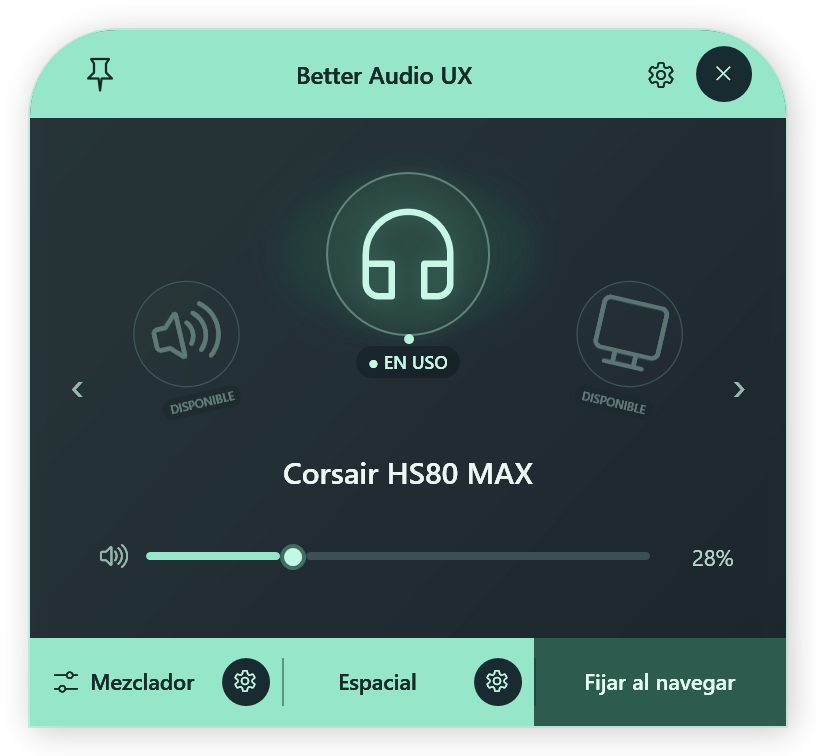
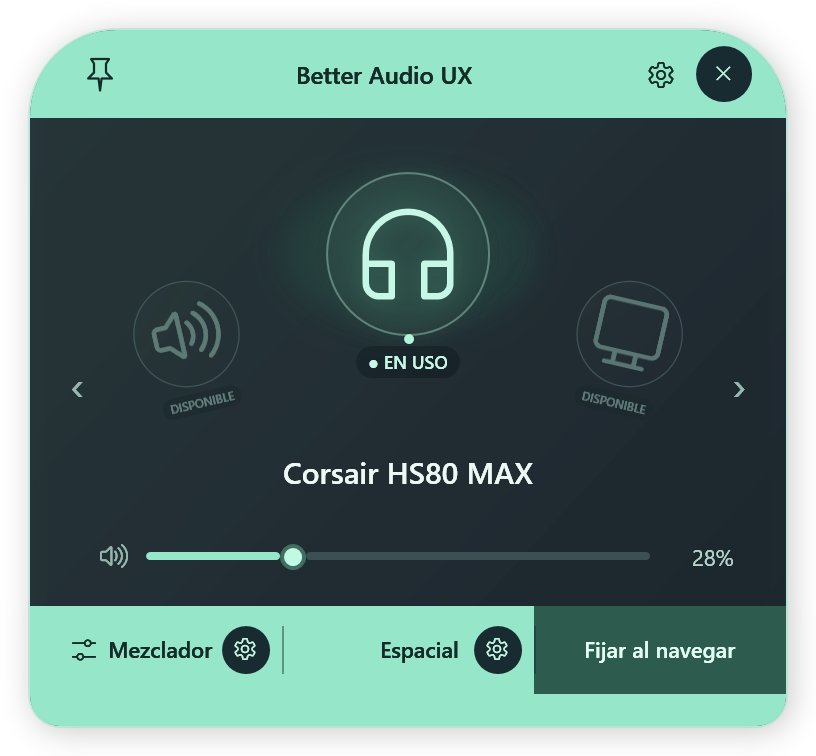
Add separate rounded footer base and tighten settings spacing

Changed region(s): [[0.0306, 0.791, 0.9804, 0.9735], [0.0306, 0.9431, 0.0613, 0.9735]]

diff --git a/AudioFlyoutApp/UI/Flyout/FlyoutWindow.xaml b/AudioFlyoutApp/UI/Flyout/FlyoutWindow.xaml
@@ -9,8 +9,8 @@
     <Window.Resources>
         <BooleanToVisibilityConverter x:Key="VisibleIf"/>
         <Style x:Key="FooterGroupButton" TargetType="Button">
-            <Setter Property="Foreground" Value="#142C28"/><Setter Property="Cursor" Value="Hand"/><Setter Property="Padding" Value="9,6"/>
-            <Setter Property="Template"><Setter.Value><ControlTemplate TargetType="Button"><Border x:Name="Surface" Background="Transparent" CornerRadius="0" Padding="{TemplateBinding Padding}"><ContentPresenter VerticalAlignment="Center" HorizontalAlignment="Center"/></Border><ControlTemplate.Triggers><Trigger Property="IsMouseOver" Value="True"><Setter TargetName="Surface" Property="Background" Value="#25142C28"/></Trigger><Trigger Property="IsKeyboardFocused" Value="True"><Setter TargetName="Surface" Property="Background" Value="#25142C28"/></Trigger></ControlTemplate.Triggers></ControlTemplate></Setter.Value></Setter>
+            <Setter Property="Foreground" Value="#142C28"/><Setter Property="Cursor" Value="Hand"/><Setter Property="Padding" Value="9,6,3,6"/>
+            <Setter Property="Template"><Setter.Value><ControlTemplate TargetType="Button"><Border x:Name="Surface" Background="Transparent" CornerRadius="0" Padding="{TemplateBinding Padding}"><ContentPresenter VerticalAlignment="Center" HorizontalAlignment="Right"/></Border><ControlTemplate.Triggers><Trigger Property="IsMouseOver" Value="True"><Setter TargetName="Surface" Property="Background" Value="#25142C28"/></Trigger><Trigger Property="IsKeyboardFocused" Value="True"><Setter TargetName="Surface" Property="Background" Value="#25142C28"/></Trigger></ControlTemplate.Triggers></ControlTemplate></Setter.Value></Setter>
         </Style>
         <Style x:Key="FooterIconButton" TargetType="Button">
             <Setter Property="Foreground" Value="#C5F6E4"/><Setter Property="Background" Value="#172B30"/><Setter Property="Cursor" Value="Hand"/>
@@ -21,7 +21,7 @@
             <Setter Property="Foreground" Value="#142C28"/><Setter Property="FontSize" Value="11"/><Setter Property="FontWeight" Value="SemiBold"/><Setter Property="Cursor" Value="Hand"/>
             <Setter Property="HorizontalContentAlignment" Value="Center"/><Setter Property="VerticalContentAlignment" Value="Center"/>
             <Setter Property="Template"><Setter.Value><ControlTemplate TargetType="CheckBox">
-                <Border x:Name="Section" Background="Transparent" Padding="6,0"><ContentPresenter HorizontalAlignment="Center" VerticalAlignment="Center"/></Border>
+                <Border x:Name="Section" Background="Transparent" Padding="6,0"><ContentPresenter HorizontalAlignment="{TemplateBinding HorizontalContentAlignment}" VerticalAlignment="Center"/></Border>
                 <ControlTemplate.Triggers>
                     <Trigger Property="IsChecked" Value="True"><Setter TargetName="Section" Property="Background" Value="#2D5C4E"/><Setter Property="Foreground" Value="#E3FFF3"/></Trigger>
                     <Trigger Property="IsMouseOver" Value="True"><Setter TargetName="Section" Property="Opacity" Value="0.8"/></Trigger>
@@ -107,12 +107,12 @@
         </Style>
         <Style x:Key="HeaderButton" TargetType="Button" BasedOn="{StaticResource IconButton}"><Setter Property="Foreground" Value="#142C28"/><Style.Triggers><Trigger Property="IsMouseOver" Value="True"><Setter Property="Foreground" Value="#28483D"/></Trigger><Trigger Property="IsKeyboardFocused" Value="True"><Setter Property="Foreground" Value="#28483D"/></Trigger></Style.Triggers></Style>
     </Window.Resources>
-    <Border x:Name="HudSurface" Margin="14" CornerRadius="44,44,0,0" BorderBrush="#8596E6C9" BorderThickness="1" RenderTransformOrigin="0.5,1">
+    <Border x:Name="HudSurface" Margin="14" CornerRadius="44,44,16,16" BorderBrush="#8596E6C9" BorderThickness="1" RenderTransformOrigin="0.5,1">
         <Border.Background><LinearGradientBrush StartPoint="0,0" EndPoint="1,1"><GradientStop Color="#EB18282C" Offset="0"/><GradientStop Color="#F0111B23" Offset="1"/></LinearGradientBrush></Border.Background>
         <Border.Effect><DropShadowEffect BlurRadius="24" ShadowDepth="3" Opacity="0.22" Color="#000000"/></Border.Effect>
         <Border.RenderTransform><TransformGroup><ScaleTransform x:Name="RevealScale"/><TranslateTransform x:Name="RevealOffset"/></TransformGroup></Border.RenderTransform>
         <Grid>
-        <Grid.RowDefinitions><RowDefinition Height="44"/><RowDefinition/><RowDefinition Height="Auto"/></Grid.RowDefinitions>
+        <Grid.RowDefinitions><RowDefinition Height="44"/><RowDefinition/><RowDefinition Height="Auto"/><RowDefinition Height="Auto"/></Grid.RowDefinitions>
         <Border CornerRadius="43,43,0,0" Background="#96E6C9"><Grid Margin="17,4">
             <Button x:Name="PinButton" Style="{StaticResource HeaderButton}" Foreground="#142C28" HorizontalAlignment="Left" Click="Pin_Click" ToolTip="Fijar panel: mantener abierto al usar otra aplicación" AutomationProperties.Name="Fijar o desfijar panel"><Viewbox Width="18" Height="18"><Path x:Name="PinShape" Data="M 6,2 L 18,2 L 16,5 L 16,11 L 20,15 L 13,15 L 12,23 L 11,15 L 4,15 L 8,11 L 8,5 Z" Stroke="#142C28" StrokeThickness="1.5" Fill="Transparent" StrokeLineJoin="Round"/></Viewbox></Button>
             <TextBlock Text="Better Audio UX" Foreground="#142C28" FontWeight="SemiBold" FontSize="12" HorizontalAlignment="Center" VerticalAlignment="Center" Margin="0,0,24,0"/>
@@ -186,14 +186,14 @@
                 <Border Grid.Column="0" Background="Transparent" Margin="0">
                     <Grid>
                         <Grid.ColumnDefinitions><ColumnDefinition/><ColumnDefinition Width="32"/></Grid.ColumnDefinitions>
-                        <Button Style="{StaticResource FooterGroupButton}" Click="Mixer_Click" AutomationProperties.Name="Abrir mezclador integrado" HorizontalAlignment="Stretch"><StackPanel Orientation="Horizontal" HorizontalAlignment="Center"><TextBlock Text="&#xE9E9;" FontFamily="Segoe Fluent Icons, Segoe MDL2 Assets" FontSize="12" Margin="0,0,6,0" VerticalAlignment="Center"/><TextBlock Text="Mezclador" FontSize="11" FontWeight="SemiBold" VerticalAlignment="Center"/></StackPanel></Button>
+                        <Button Style="{StaticResource FooterGroupButton}" Click="Mixer_Click" AutomationProperties.Name="Abrir mezclador integrado" HorizontalAlignment="Stretch"><StackPanel Orientation="Horizontal" HorizontalAlignment="Right"><TextBlock Text="&#xE9E9;" FontFamily="Segoe Fluent Icons, Segoe MDL2 Assets" FontSize="12" Margin="0,0,6,0" VerticalAlignment="Center"/><TextBlock Text="Mezclador" FontSize="11" FontWeight="SemiBold" VerticalAlignment="Center"/></StackPanel></Button>
                         <Button Grid.Column="1" Style="{StaticResource FooterIconButton}" Click="MixerSettings_Click" Content="&#xE713;" FontFamily="Segoe Fluent Icons, Segoe MDL2 Assets" FontSize="11" ToolTip="Mezclador de Windows" AutomationProperties.Name="Abrir configuración del mezclador en Windows"/>
                     </Grid>
                 </Border>
                 <Border Grid.Column="1" Margin="0"><Border.Style><Style TargetType="Border"><Setter Property="Background" Value="Transparent"/><Style.Triggers><DataTrigger Binding="{Binding SpatialEnabled}" Value="True"><Setter Property="Background" Value="#2D5C4E"/></DataTrigger></Style.Triggers></Style></Border.Style>
                     <Grid>
                         <Grid.ColumnDefinitions><ColumnDefinition/><ColumnDefinition Width="32"/></Grid.ColumnDefinitions>
-                        <CheckBox Style="{StaticResource FooterCheckBox}" Content="Espacial" Margin="0" IsChecked="{Binding SpatialEnabled, Mode=OneWay}" IsEnabled="{Binding CanToggleSpatial}" Click="SpatialToggle_Click" ToolTip="{Binding SpatialHint}" ToolTipService.ShowOnDisabled="True" HorizontalAlignment="Stretch" VerticalAlignment="Stretch" AutomationProperties.Name="Activar o desactivar sonido espacial"/>
+                        <CheckBox Style="{StaticResource FooterCheckBox}" Content="Espacial" HorizontalContentAlignment="Right" Margin="0" IsChecked="{Binding SpatialEnabled, Mode=OneWay}" IsEnabled="{Binding CanToggleSpatial}" Click="SpatialToggle_Click" ToolTip="{Binding SpatialHint}" ToolTipService.ShowOnDisabled="True" HorizontalAlignment="Stretch" VerticalAlignment="Stretch" AutomationProperties.Name="Activar o desactivar sonido espacial"/>
                         <Button Grid.Column="1" Style="{StaticResource FooterIconButton}" Tag="Spatial" Click="Spatial_Click" IsEnabled="{Binding HasDevices}" Content="&#xE713;" FontFamily="Segoe Fluent Icons, Segoe MDL2 Assets" FontSize="11" ToolTip="Proveedores y propiedades de sonido espacial en Windows" AutomationProperties.Name="Configurar sonido espacial en Windows"/>
                     </Grid>
                 </Border>
@@ -204,6 +204,7 @@
                 </Border>
             </Grid>
         </Border>
+        <Border Grid.Row="3" Height="16" CornerRadius="0,0,15,15" Background="#96E6C9" IsHitTestVisible="False"><Border.Style><Style TargetType="Border"><Style.Triggers><DataTrigger Binding="{Binding IsMixerOpen}" Value="True"><Setter Property="Visibility" Value="Collapsed"/></DataTrigger></Style.Triggers></Style></Border.Style></Border>
         <Grid x:Name="MixerView" Grid.Row="1" Grid.RowSpan="2" Margin="20,8,20,18">
             <Grid.Style><Style TargetType="Grid"><Setter Property="Visibility" Value="Collapsed"/><Style.Triggers><DataTrigger Binding="{Binding IsMixerOpen}" Value="True"><Setter Property="Visibility" Value="Visible"/></DataTrigger></Style.Triggers></Style></Grid.Style>
             <Grid.RenderTransform><TranslateTransform/></Grid.RenderTransform>

diff --git a/README.md b/README.md
@@ -108,7 +108,7 @@ Utiliza NAudio.Wasapi/NAudio.Core (MIT), el runtime de .NET y **SoundVolumeComma
 
 Consultá [THIRD-PARTY-NOTICES.md](THIRD-PARTY-NOTICES.md) y el [readme original de NirSoft](ThirdParty/SoundVolumeCommandLine/readme.txt). Las licencias de las dependencias no conceden una licencia sobre el código propio del proyecto.
 
-## Interfaz compacta 1.2.6
+## Interfaz compacta 1.2.7
 
-El footer se divide en tres secciones: Mezclador, Espacial y Fijar al navegar. Las opciones activas colorean su sección completa, sin casillas; los engranajes siguen abriendo sus ajustes de Windows. El footer tiene bordes rectos; el encabezado conserva sus esquinas superiores redondeadas. Los engranajes tienen contenedores circulares con contraste, que invierten sus colores cuando Espacial está activo. La apertura prepara el audio antes de mostrar un único fundido del contenido, sin volver a escalar ni cambiar la opacidad de la ventana. Los indicadores de estado de los dispositivos ("EN USO" y "DISPONIBLE") cuentan con mayor visibilidad, fondo y tipografía destacada. La vista principal mide 408 × 378 DIPs.
+El footer se divide en tres secciones: Mezclador, Espacial y Fijar al navegar. Las opciones activas colorean su sección completa, sin casillas; los engranajes siguen abriendo sus ajustes de Windows. Las tres secciones del footer conservan sus bordes rectos, con una base decorativa independiente que redondea el borde inferior sin recortar los botones. Los engranajes están más cerca del texto. El encabezado conserva sus esquinas superiores redondeadas. Los engranajes tienen contenedores circulares con contraste, que invierten sus colores cuando Espacial está activo. La apertura prepara el audio antes de mostrar un único fundido del contenido, sin volver a escalar ni cambiar la opacidad de la ventana. Los indicadores de estado de los dispositivos ("EN USO" y "DISPONIBLE") cuentan con mayor visibilidad, fondo y tipografía destacada. La vista principal mide 408 × 378 DIPs.
 
